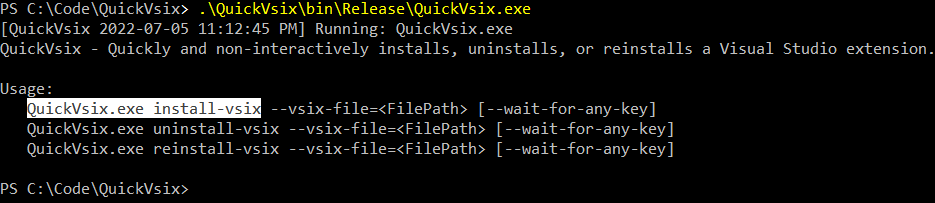
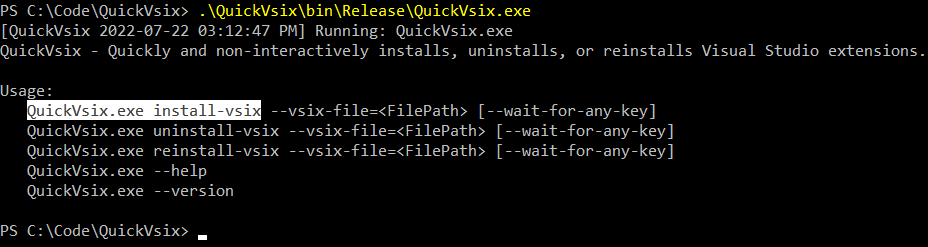
Bump version to 1.1.0

diff --git a/QuickVsix/ValueTypes/QuickVsixArgs.cs b/QuickVsix/ValueTypes/QuickVsixArgs.cs
@@ -8,12 +8,13 @@ public class QuickVsixArgs : NUnitEquatable, IDocoptArgs
 {
    public string ProgramName => "QuickVsix";
    public string Version => "1.1.0";
-   public string Usage => @"QuickVsix - Quickly and non-interactively installs, uninstalls, or reinstalls a Visual Studio extension.
+   public string Usage => @"QuickVsix - Quickly and non-interactively installs, uninstalls, or reinstalls Visual Studio extensions.
 
 Usage:
    QuickVsix.exe install-vsix --vsix-file=<FilePath> [--wait-for-any-key]
    QuickVsix.exe uninstall-vsix --vsix-file=<FilePath> [--wait-for-any-key]
    QuickVsix.exe reinstall-vsix --vsix-file=<FilePath> [--wait-for-any-key]
+   QuickVsix.exe --help
    QuickVsix.exe --version";
 
    public string CommandLine { get; set; }

diff --git a/QuickVsixTests/ValueTypes/QuickVsixArgsTests.cs b/QuickVsixTests/ValueTypes/QuickVsixArgsTests.cs
@@ -32,12 +32,13 @@ public class QuickVsixArgsTests
    [Test]
    public void Usage_ReturnsExpectedProgramUsageText()
    {
-      Assert.AreEqual(@"QuickVsix - Quickly and non-interactively installs, uninstalls, or reinstalls a Visual Studio extension.
+      Assert.AreEqual(@"QuickVsix - Quickly and non-interactively installs, uninstalls, or reinstalls Visual Studio extensions.
 
 Usage:
    QuickVsix.exe install-vsix --vsix-file=<FilePath> [--wait-for-any-key]
    QuickVsix.exe uninstall-vsix --vsix-file=<FilePath> [--wait-for-any-key]
    QuickVsix.exe reinstall-vsix --vsix-file=<FilePath> [--wait-for-any-key]
+   QuickVsix.exe --help
    QuickVsix.exe --version", _quickVsixArgs.Usage);
    }
 

diff --git a/README.md b/README.md
@@ -18,12 +18,13 @@ QuickVsix works by running VSIXInstaller.exe (which must be added to the PATH be
 #### Command line usage
 
 ```
-QuickVsix - Quickly and non-interactively installs, uninstalls, or reinstalls a Visual Studio extension.
+QuickVsix - Quickly and non-interactively installs, uninstalls, or reinstalls Visual Studio extensions.
 
 Usage:
    QuickVsix.exe install-vsix --vsix-file=<FilePath> [--wait-for-any-key]
    QuickVsix.exe uninstall-vsix --vsix-file=<FilePath> [--wait-for-any-key]
    QuickVsix.exe reinstall-vsix --vsix-file=<FilePath> [--wait-for-any-key]
+   QuickVsix.exe --help
    QuickVsix.exe --version
 ```
 
